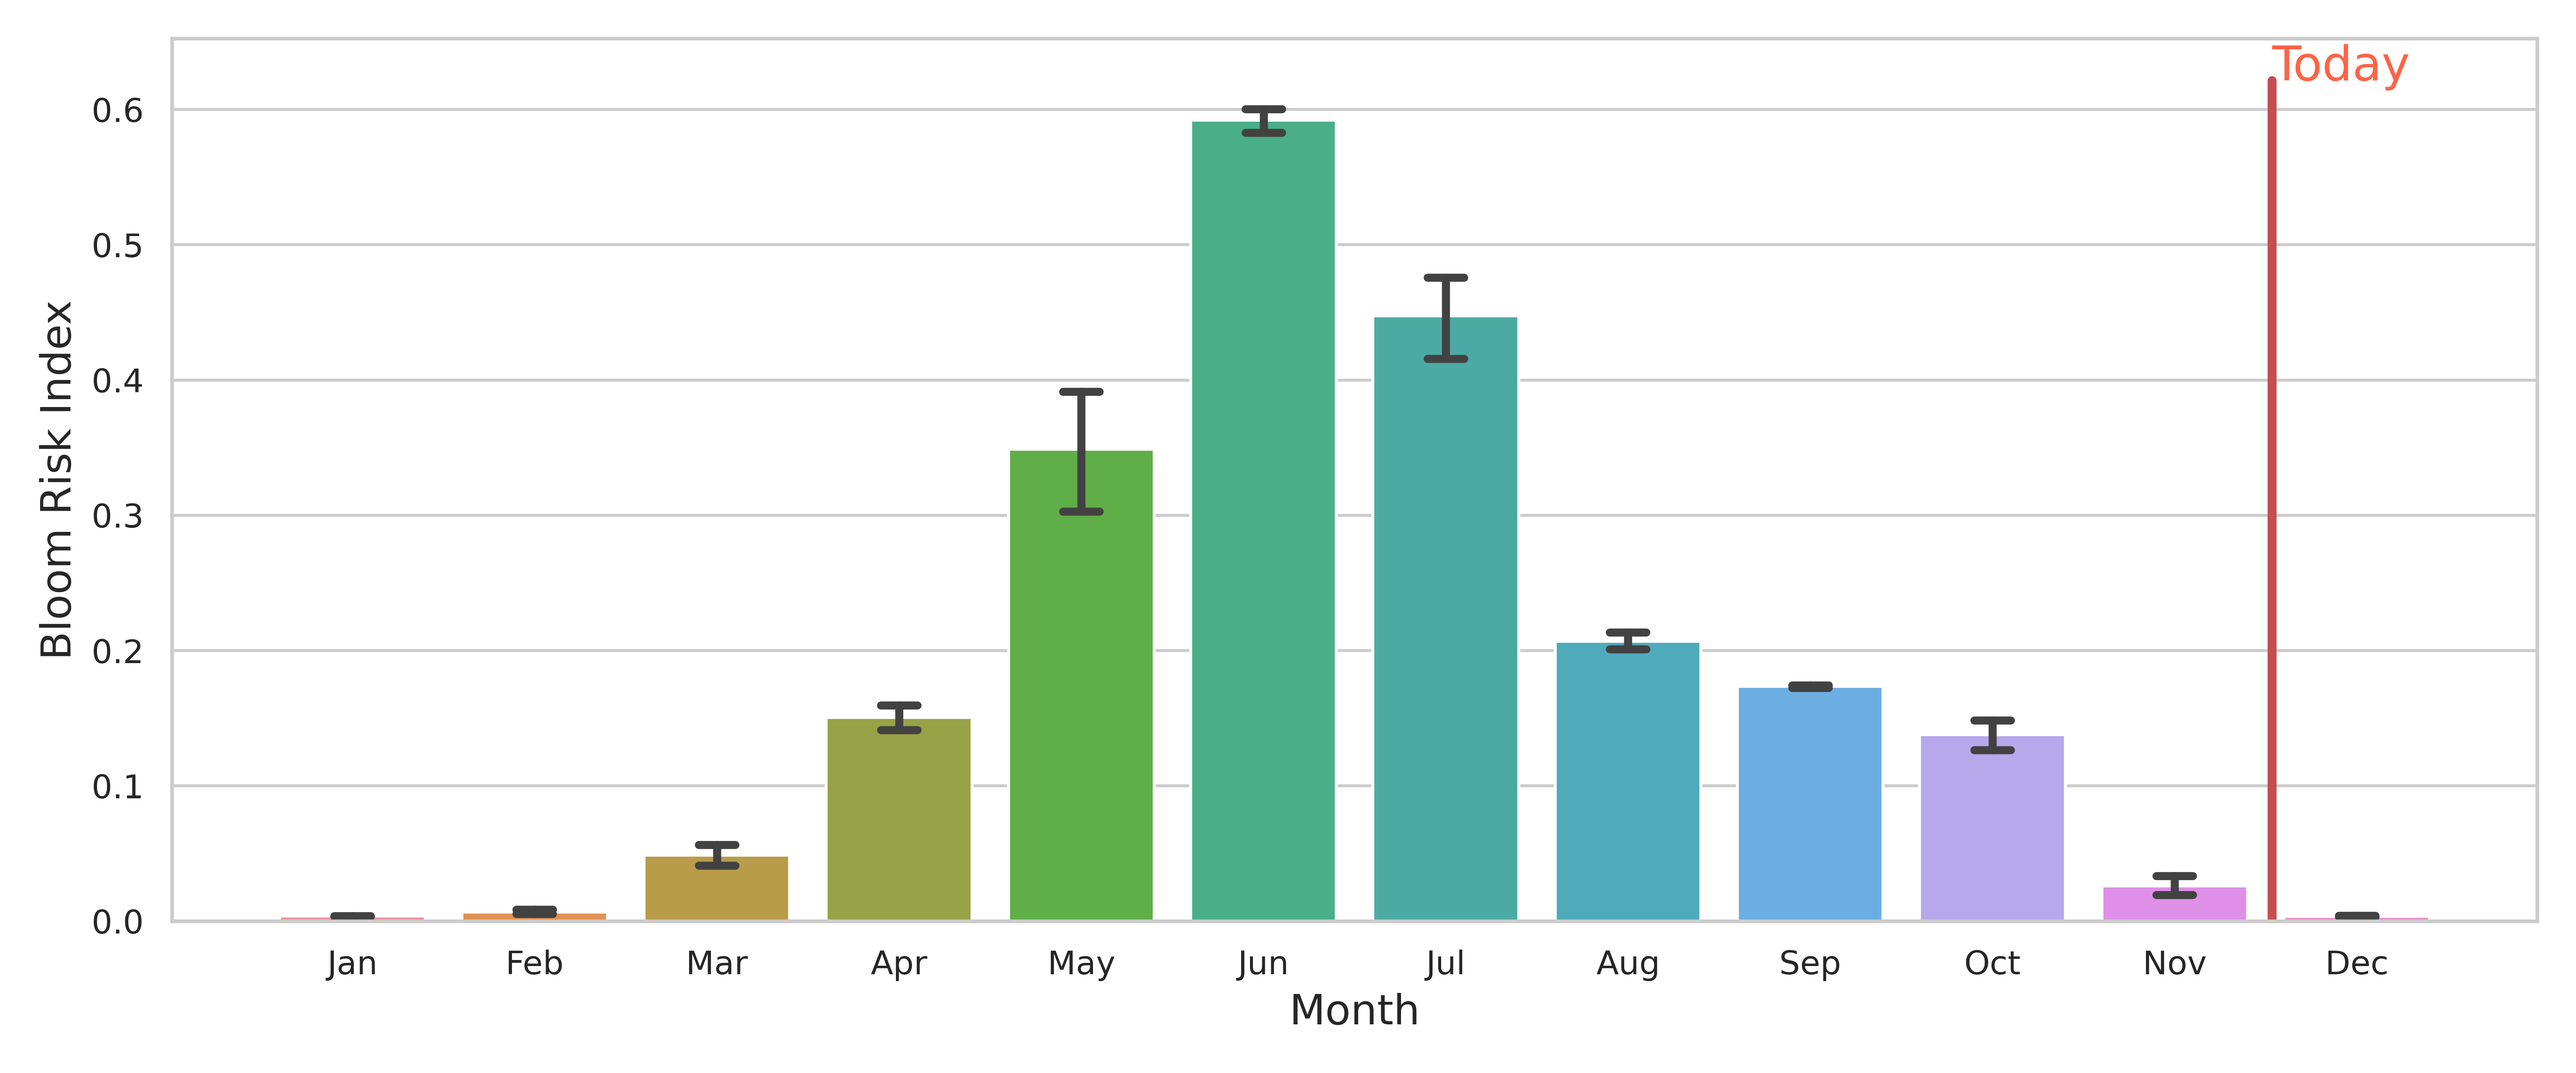
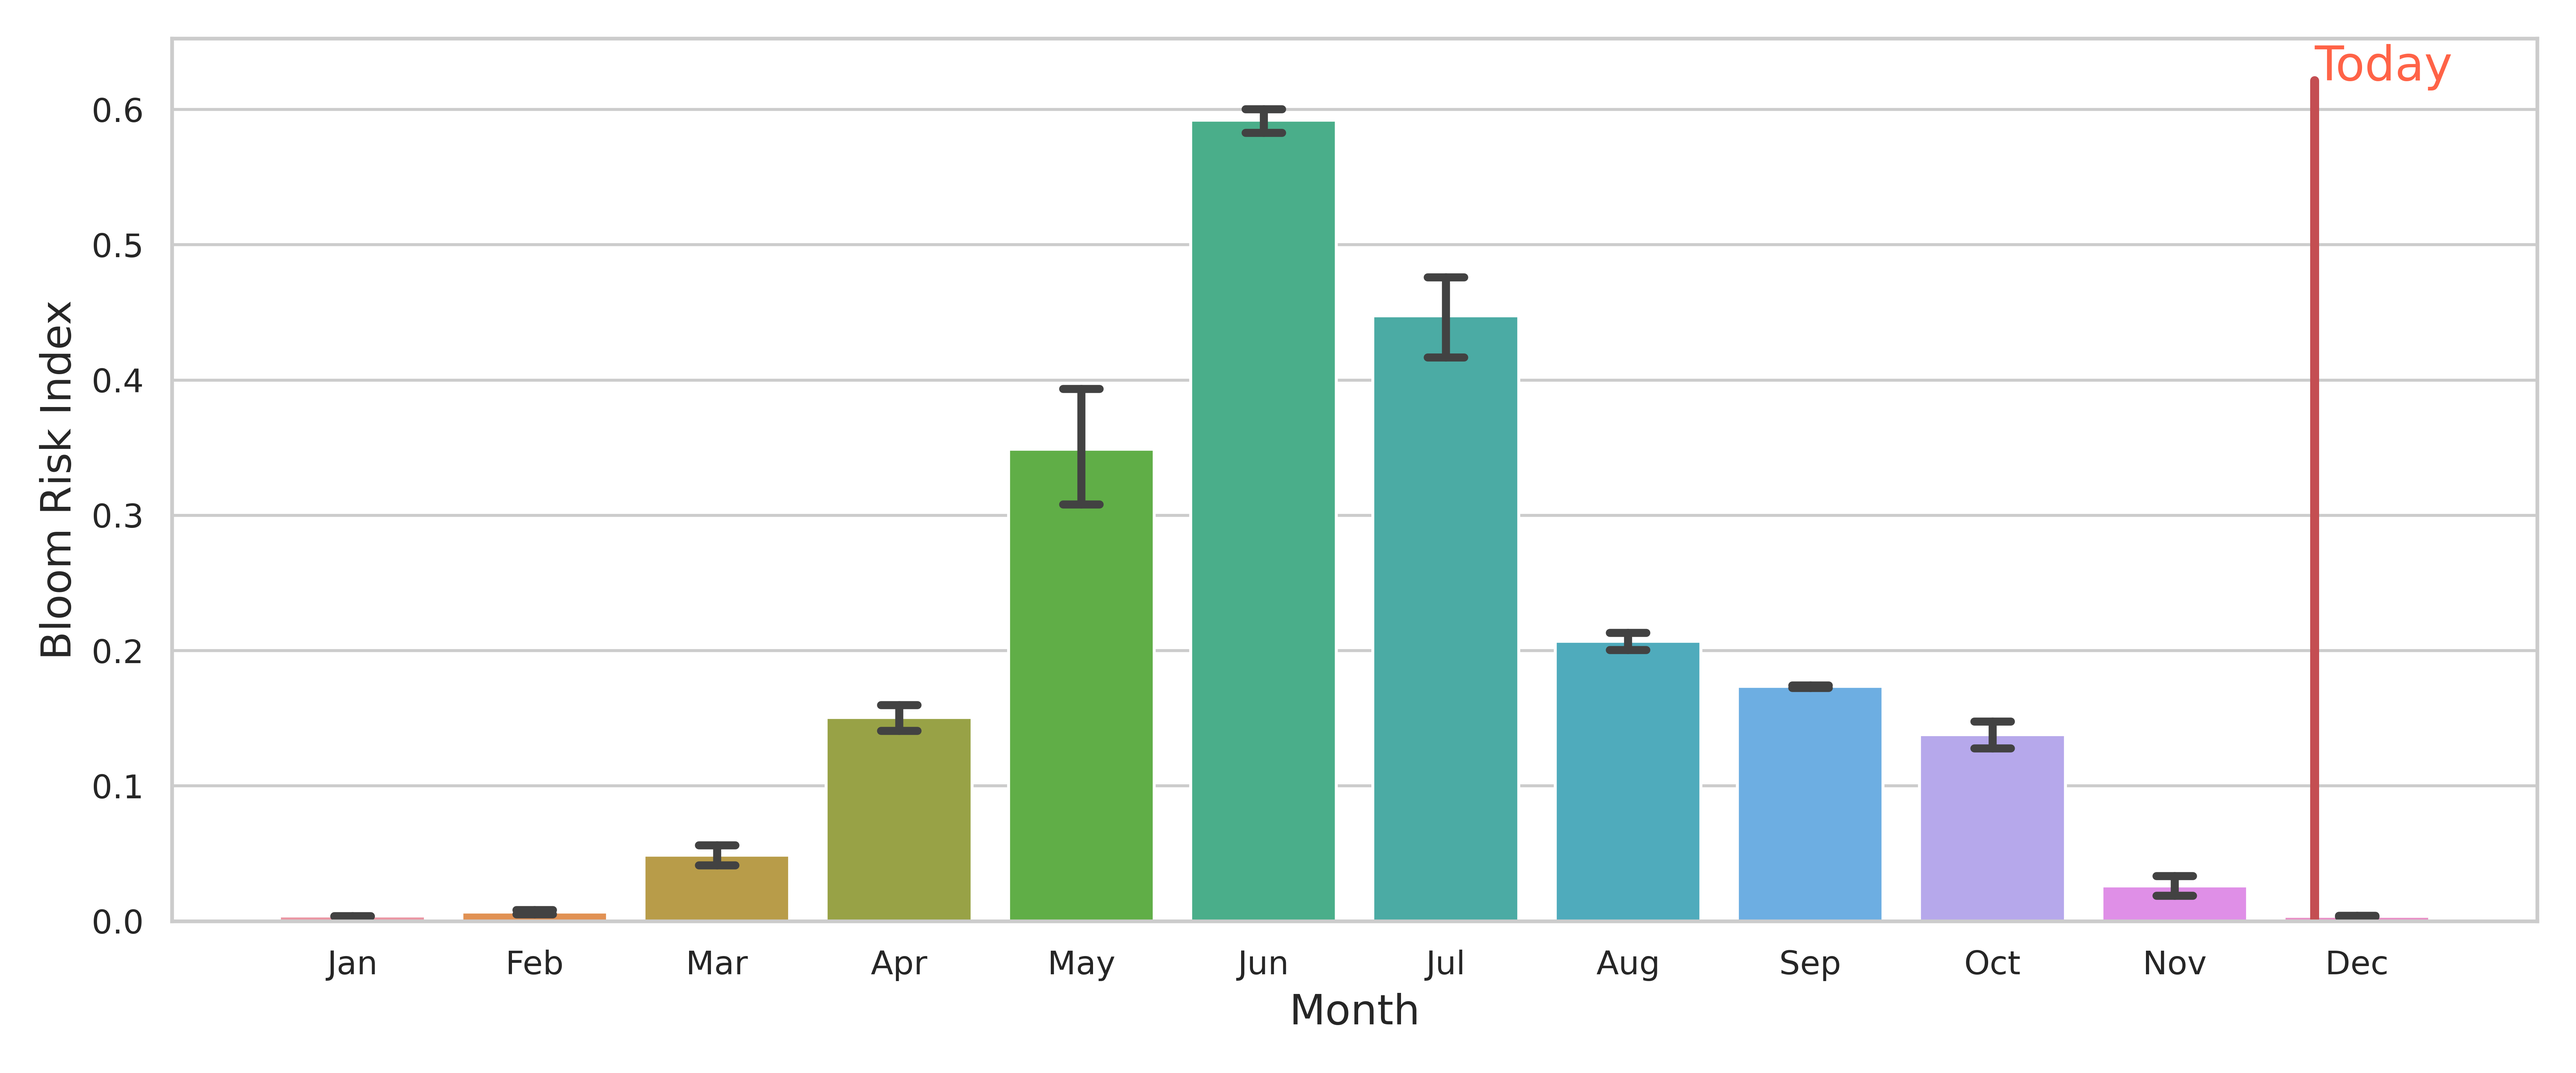
daily blog update

Changed region(s): [[0.875, 0.031, 0.9375, 0.868], [0.4062, 0.465, 0.4375, 0.496]]

diff --git a/index.md b/index.md
@@ -1,5 +1,5 @@
 ---
-title: "Nov 16, 2026"
+title: "Nov 23, 2026"
 excerpt: "HAB update"
 image: /assets/images/detroit.jpg
 tags: 
@@ -11,35 +11,35 @@ Click here to see the live and interactive [Harmful Algal Bloom dashboard](https
 
 ## 7-day Look Ahead Bloom Forecast
 Below are pie charts describing the __probability of a cyanobacterial bloom__. The one on the left describes the predictions from two weeks ago, and the one on the right describes the latest prediction, for the coming week. 
-![image-center]({{ site.url }}{{ site.baseurl }}/assets/images/20261116/Fig_prediction.png)
+![image-center]({{ site.url }}{{ site.baseurl }}/assets/images/20261123/Fig_prediction.png)
 __Probabilities for different levels of cyanobacterial concentrations from two weeks ago (left) and for the next 7 days (right).__
 
 ## Hotspot Analysis - Chlorophyll-a
 This map shows you the latest estimates of __chlorophyll-a__ from the Sentinel 2a satellite. Note that the color scale is normalized to highlight the hotspots in the image. The colorscale does not provide an indication of the absolute amount of chlorophyll-a in the water and should be interpreted as an "index" of chlorophyll-a.
-![image-center]({{ site.url }}{{ site.baseurl }}/assets/images/20261116/Fig_chla.png){: .align-center}
+![image-center]({{ site.url }}{{ site.baseurl }}/assets/images/20261123/Fig_chla.png){: .align-center}
 <br clear="all" />
 __Latest chlorophyll-a map from the Sentinel 2a satelllite.__
 
 ## Hotspot Analysis - CyAN
 This map shows you the latest estimates of the concentration of cyanobacteria (cells/ml) from the EPA CyAN program.
-![image-center]({{ site.url }}{{ site.baseurl }}/assets/images/20261116/Fig_cyan.png){: .align-center}
+![image-center]({{ site.url }}{{ site.baseurl }}/assets/images/20261123/Fig_cyan.png){: .align-center}
 <br clear="all" />
 __Latest CyAN map from the EPA.__
 
 
 ## Where we are in the season
 This plot shows the __historical expectation for HAB risk__ over the year. Use this chart to see where we are in the season (identified by the vertical red line). 
-![image-center]({{ site.url }}{{ site.baseurl }}/assets/images/20261116/Fig_climatology.png){: .     align-center}
+![image-center]({{ site.url }}{{ site.baseurl }}/assets/images/20261123/Fig_climatology.png){: .     align-center}
 __Harmful algal bloom risk over the year__.
 
 ## How rainy has it been? 
 We know that in general certain weather conditions promote the likelihood of HABs. Check this chart to see 
 how __wet__ it is, relative to past years. This is simply adding up each day's rainfall, for each year. If the red line is below the orange line, then this year is dryer than average.
-![image-center]({{ site.url }}{{ site.baseurl }}/assets/images/20261116/Fig_precip_cumsum.png){: .     align-center}
+![image-center]({{ site.url }}{{ site.baseurl }}/assets/images/20261123/Fig_precip_cumsum.png){: .     align-center}
 __Precipitation at the lake compared to previous years__.
 
 ## How hot has it been? 
 We know that in general certain weather conditions promote the likelihood of HABs. Check this chart to see 
 how __hot__ it is, relative to past years. This is simply adding up each day's temperature, for each year. If the red line is above the orange line, this year is hotter than average.
-![image-center]({{ site.url }}{{ site.baseurl }}/assets/images/20261116/Fig_temp_cumsum.png){: .     align-center}
+![image-center]({{ site.url }}{{ site.baseurl }}/assets/images/20261123/Fig_temp_cumsum.png){: .     align-center}
 __Air temperature at the lake compared to previous years__.

diff --git a/_posts/2026-11-23-blog307.md b/_posts/2026-11-23-blog307.md
@@ -1,0 +1,45 @@
+---
+title: "Nov 23, 2026"
+excerpt: "HAB update"
+image: /assets/images/detroit.jpg
+tags: 
+  - hab
+  - prediction
+---
+
+Click here to see the live and interactive [Harmful Algal Bloom dashboard](https://detroitlake.clrwater.io/).
+
+## 7-day Look Ahead Bloom Forecast
+Below are pie charts describing the __probability of a cyanobacterial bloom__. The one on the left describes the predictions from two weeks ago, and the one on the right describes the latest prediction, for the coming week. 
+![image-center]({{ site.url }}{{ site.baseurl }}/assets/images/20261123/Fig_prediction.png)
+__Probabilities for different levels of cyanobacterial concentrations from two weeks ago (left) and for the next 7 days (right).__
+
+## Hotspot Analysis - Chlorophyll-a
+This map shows you the latest estimates of __chlorophyll-a__ from the Sentinel 2a satellite. Note that the color scale is normalized to highlight the hotspots in the image. The colorscale does not provide an indication of the absolute amount of chlorophyll-a in the water and should be interpreted as an "index" of chlorophyll-a.
+![image-center]({{ site.url }}{{ site.baseurl }}/assets/images/20261123/Fig_chla.png){: .align-center}
+<br clear="all" />
+__Latest chlorophyll-a map from the Sentinel 2a satelllite.__
+
+## Hotspot Analysis - CyAN
+This map shows you the latest estimates of the concentration of cyanobacteria (cells/ml) from the EPA CyAN program.
+![image-center]({{ site.url }}{{ site.baseurl }}/assets/images/20261123/Fig_cyan.png){: .align-center}
+<br clear="all" />
+__Latest CyAN map from the EPA.__
+
+
+## Where we are in the season
+This plot shows the __historical expectation for HAB risk__ over the year. Use this chart to see where we are in the season (identified by the vertical red line). 
+![image-center]({{ site.url }}{{ site.baseurl }}/assets/images/20261123/Fig_climatology.png){: .     align-center}
+__Harmful algal bloom risk over the year__.
+
+## How rainy has it been? 
+We know that in general certain weather conditions promote the likelihood of HABs. Check this chart to see 
+how __wet__ it is, relative to past years. This is simply adding up each day's rainfall, for each year. If the red line is below the orange line, then this year is dryer than average.
+![image-center]({{ site.url }}{{ site.baseurl }}/assets/images/20261123/Fig_precip_cumsum.png){: .     align-center}
+__Precipitation at the lake compared to previous years__.
+
+## How hot has it been? 
+We know that in general certain weather conditions promote the likelihood of HABs. Check this chart to see 
+how __hot__ it is, relative to past years. This is simply adding up each day's temperature, for each year. If the red line is above the orange line, this year is hotter than average.
+![image-center]({{ site.url }}{{ site.baseurl }}/assets/images/20261123/Fig_temp_cumsum.png){: .     align-center}
+__Air temperature at the lake compared to previous years__.
